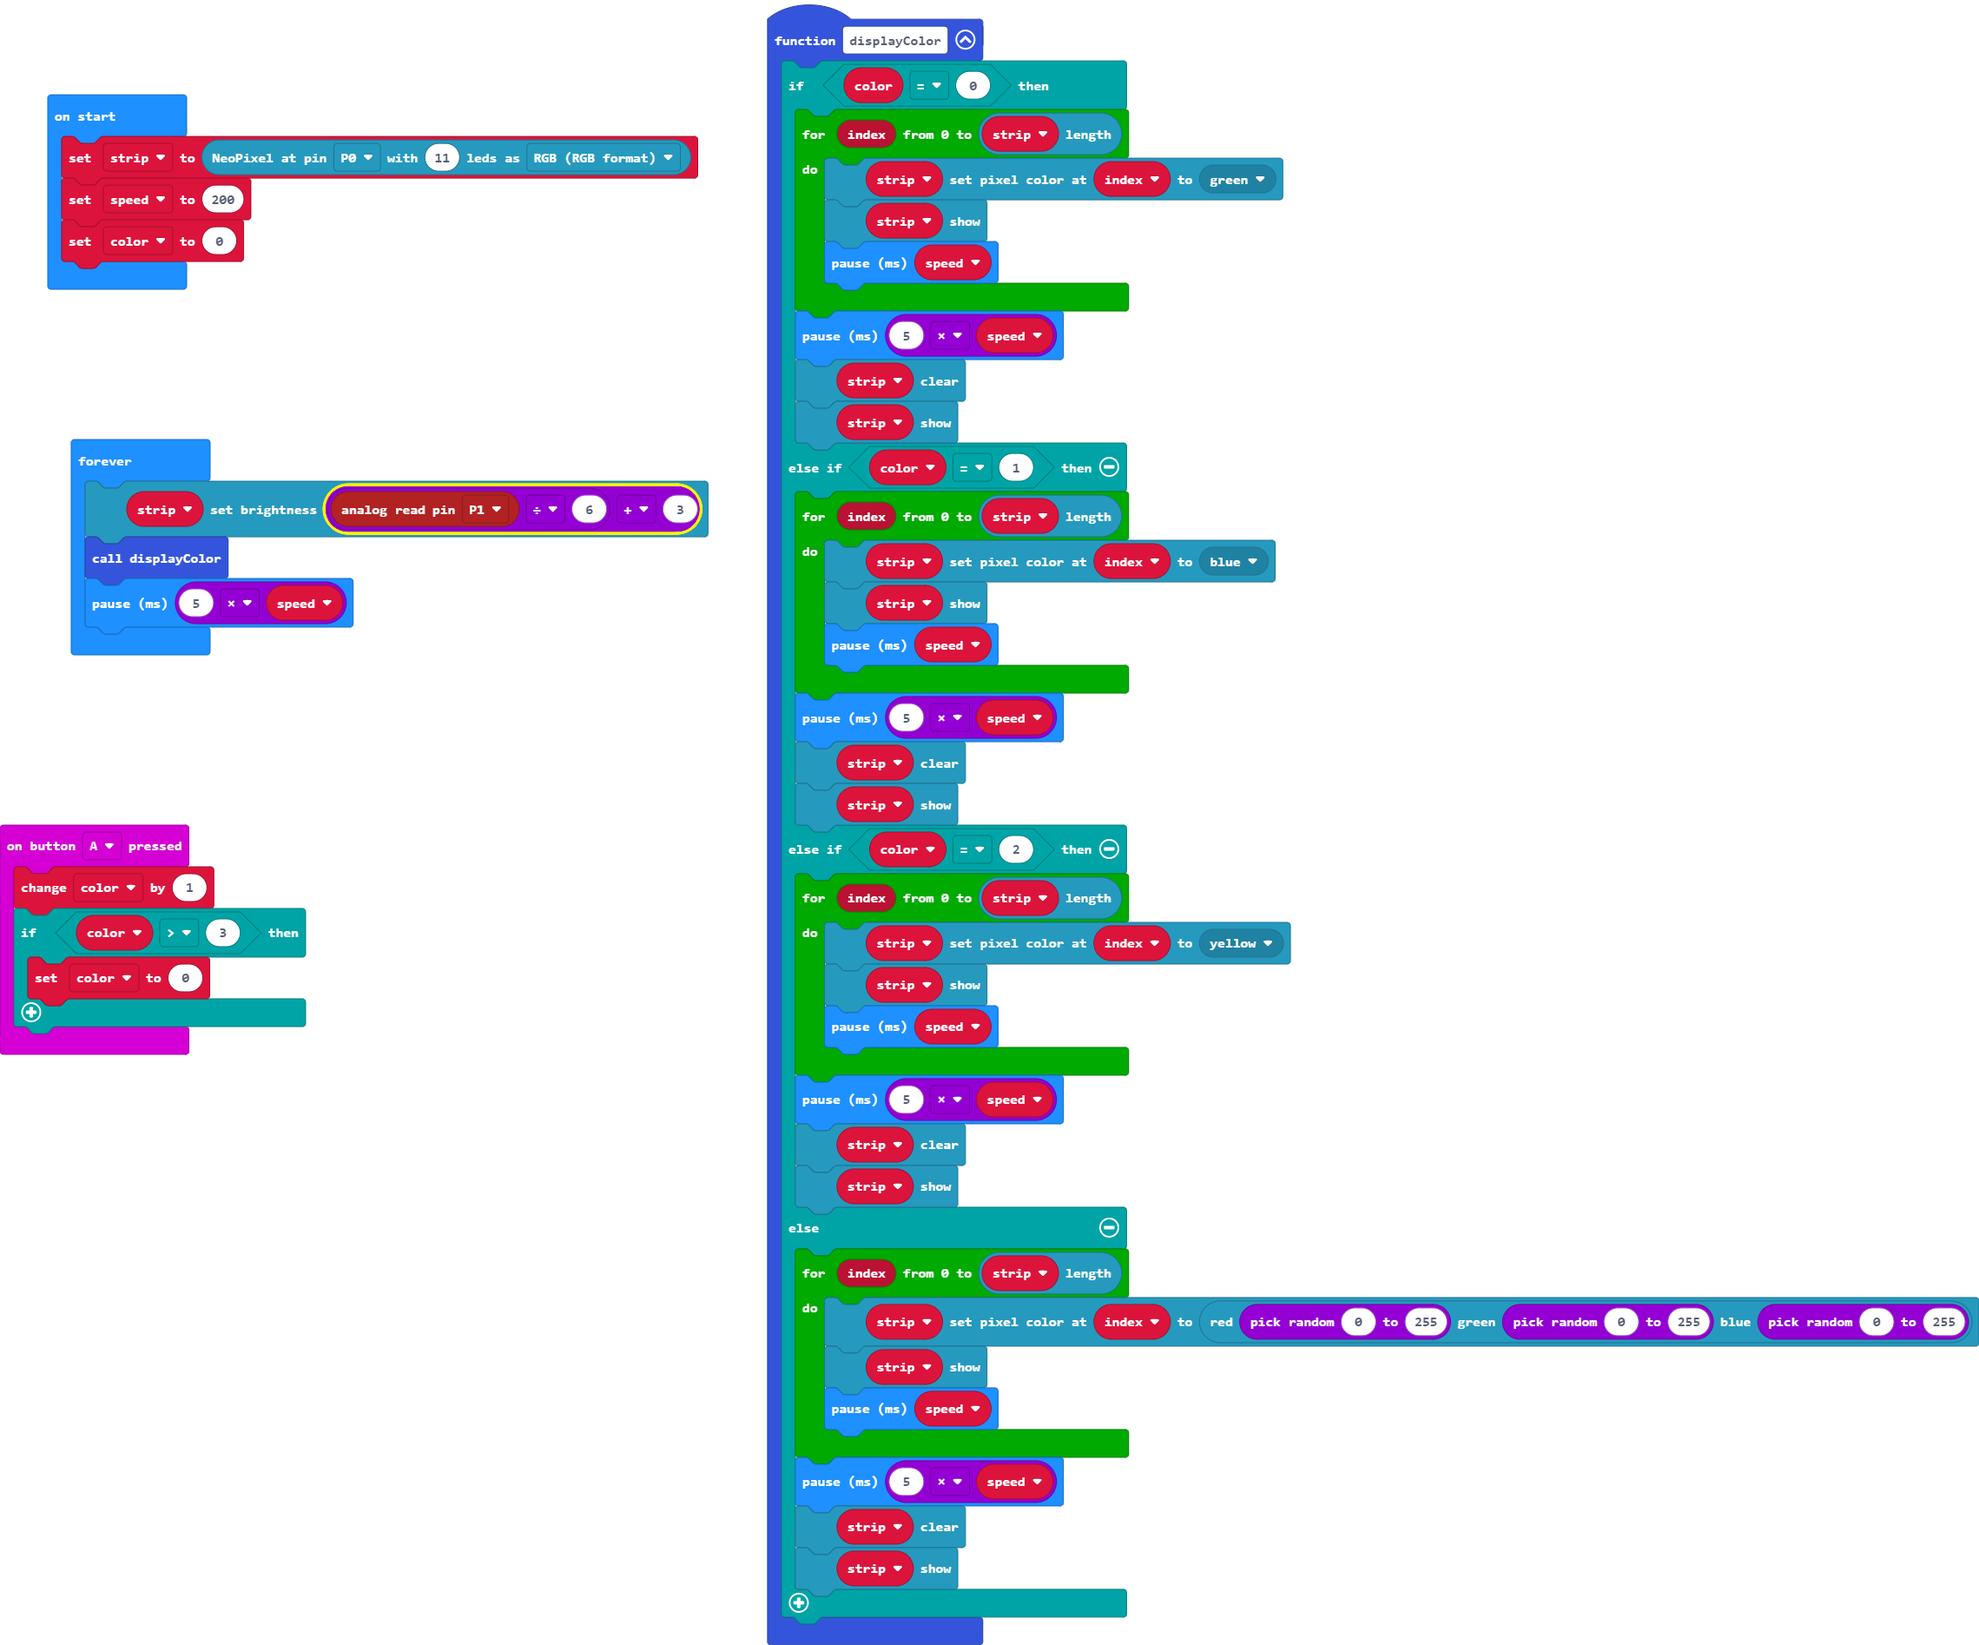
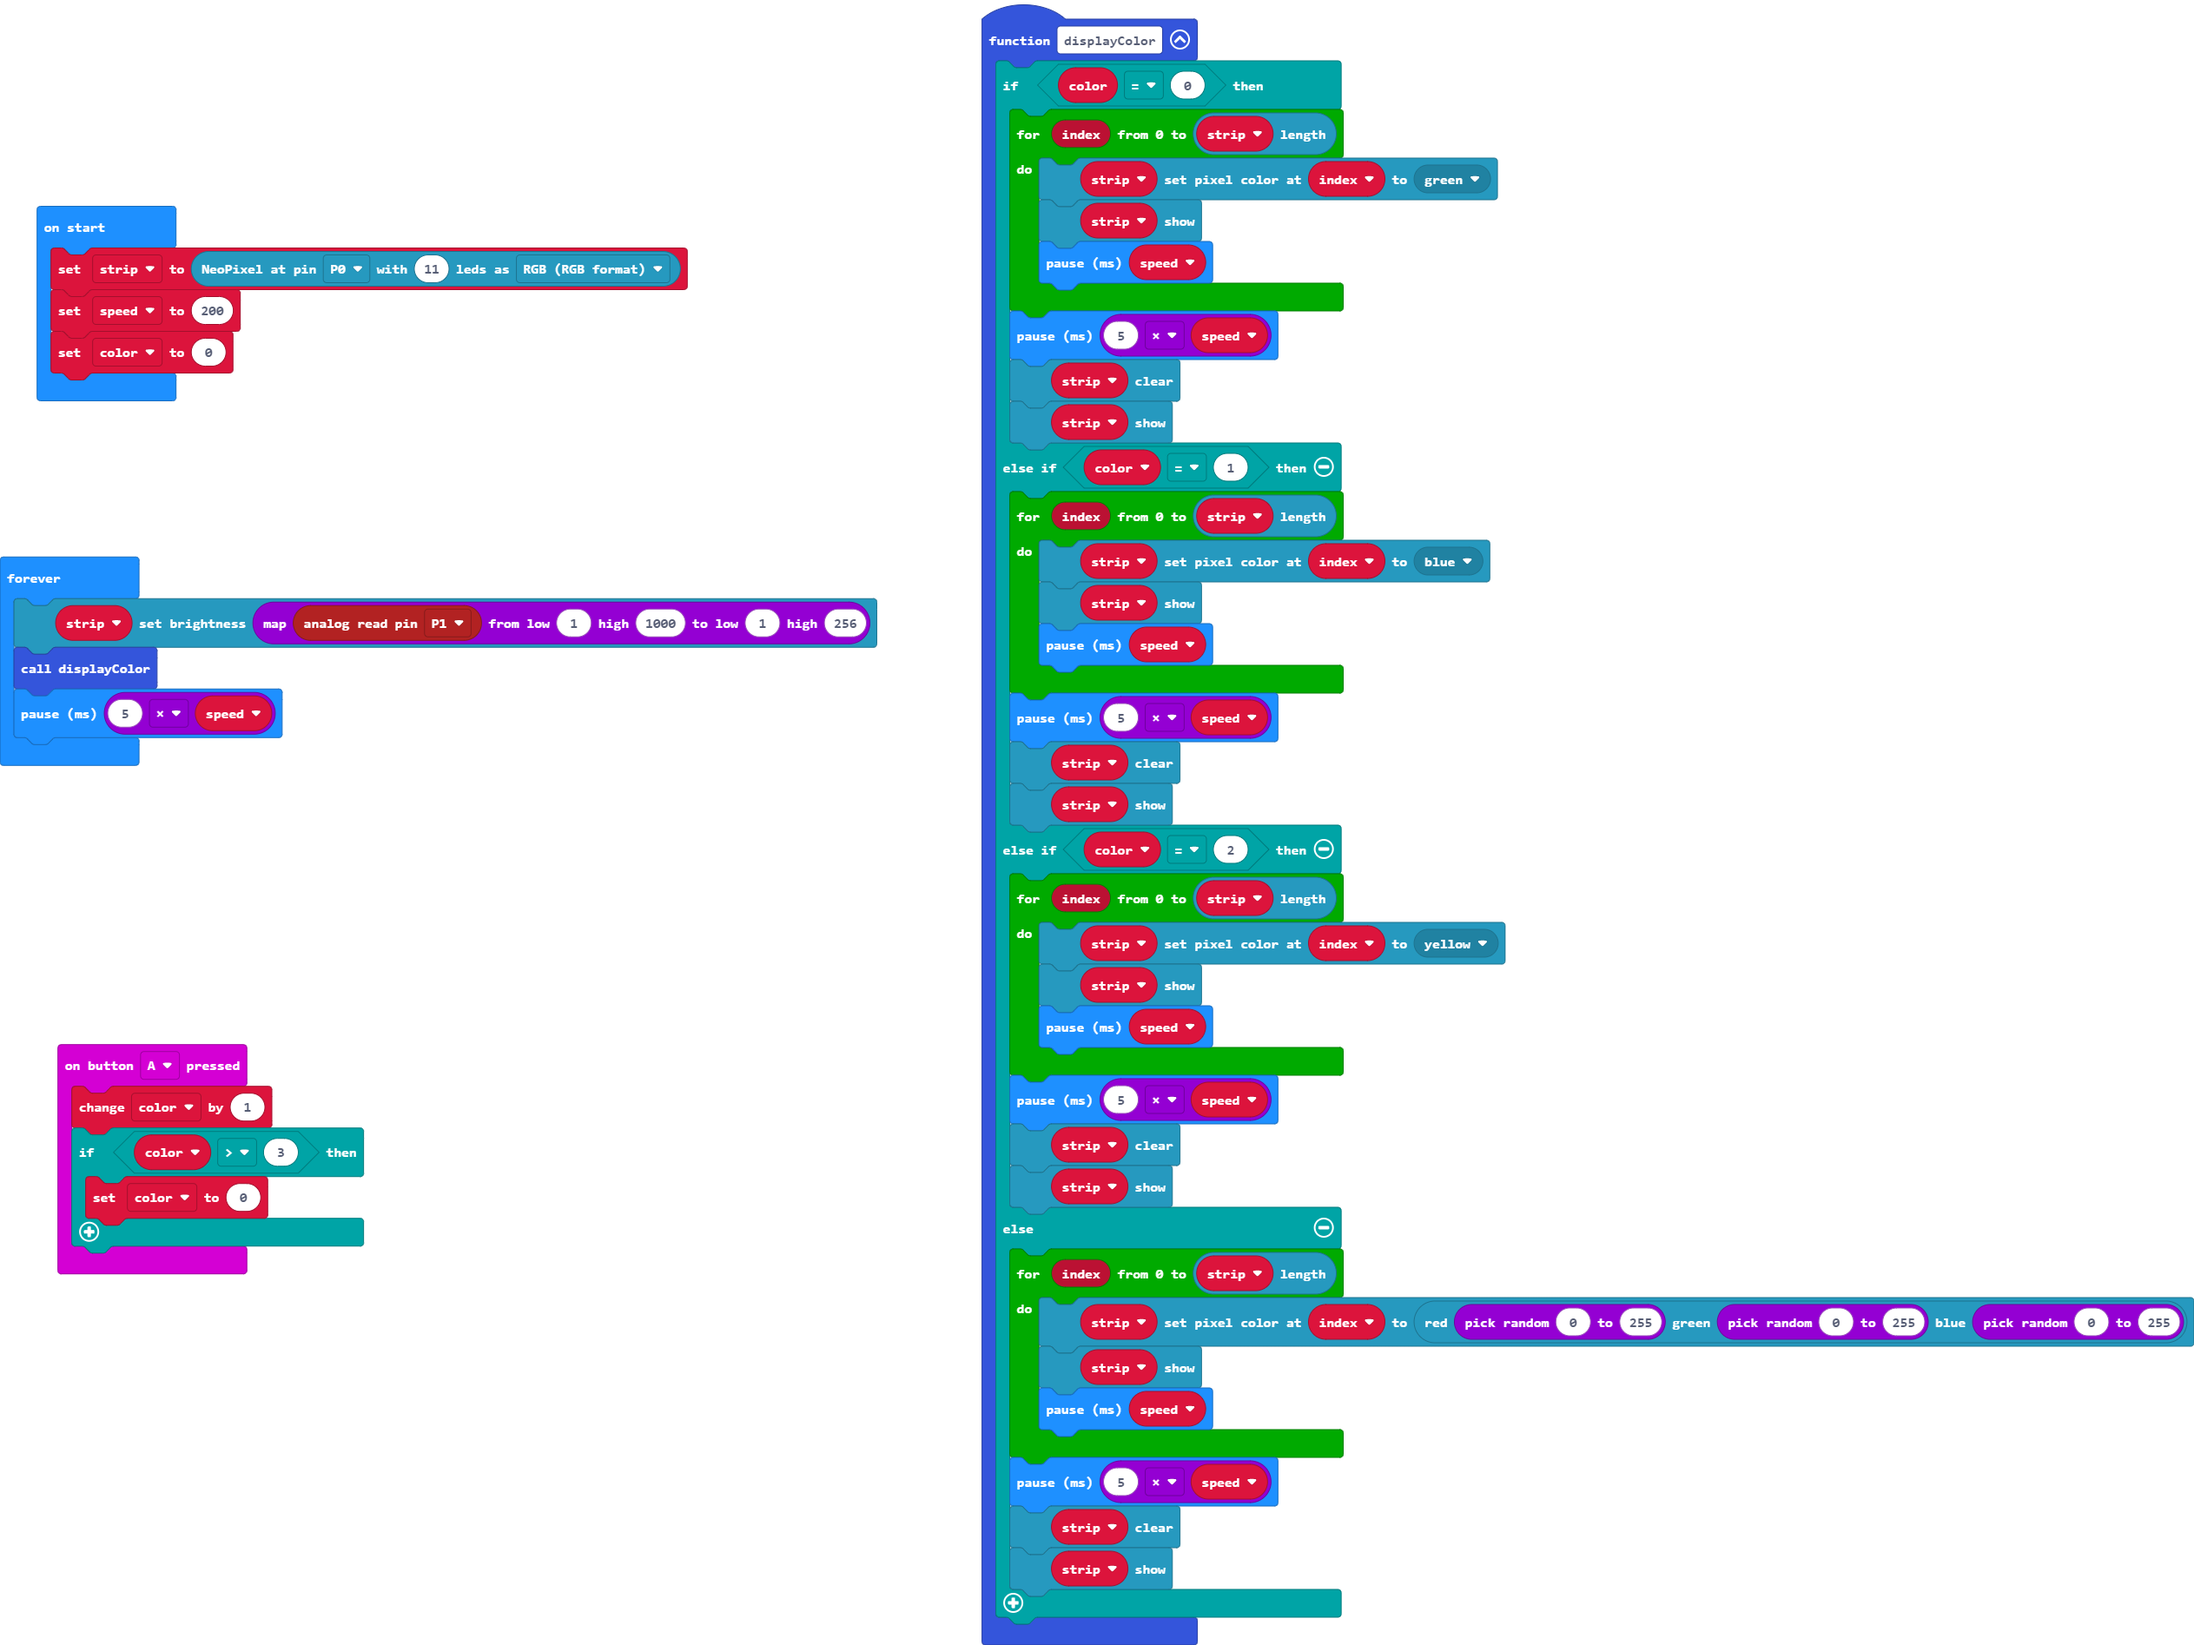
Update main.blocks, main.ts

Changed region(s): [[0.0, 0.0, 0.9969, 1.0], [0.0, 0.4984, 0.1869, 0.7788]]

diff --git a/main.ts b/main.ts
@@ -50,7 +50,7 @@ strip = neopixel.create(DigitalPin.P0, 11, NeoPixelMode.RGB_RGB)
 speed = 200
 color = 0
 basic.forever(function () {
-    strip.setBrightness(pins.analogReadPin(AnalogPin.P1) / 6 + 3)
+    strip.setBrightness(Math.map(pins.analogReadPin(AnalogPin.P1), 1, 1000, 1, 256))
     displayColor()
     basic.pause(5 * speed)
 })
